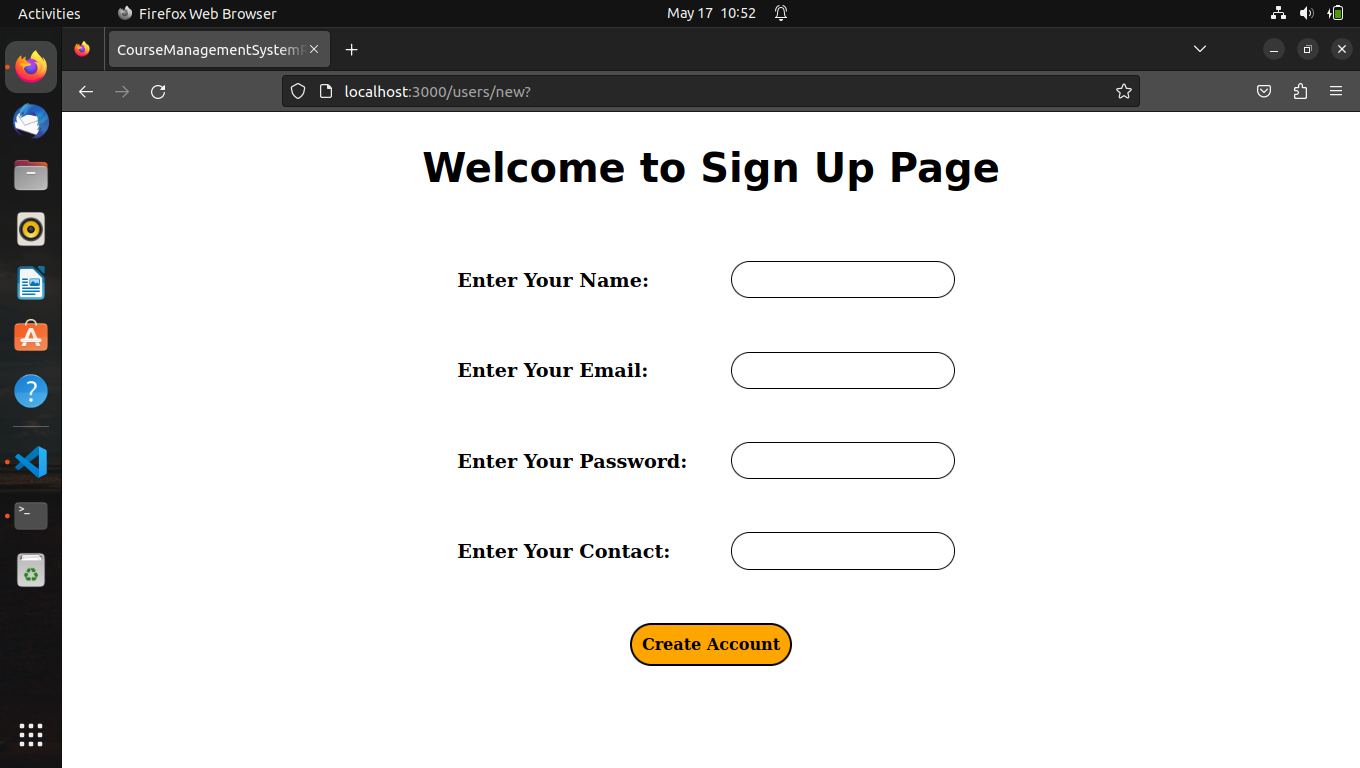
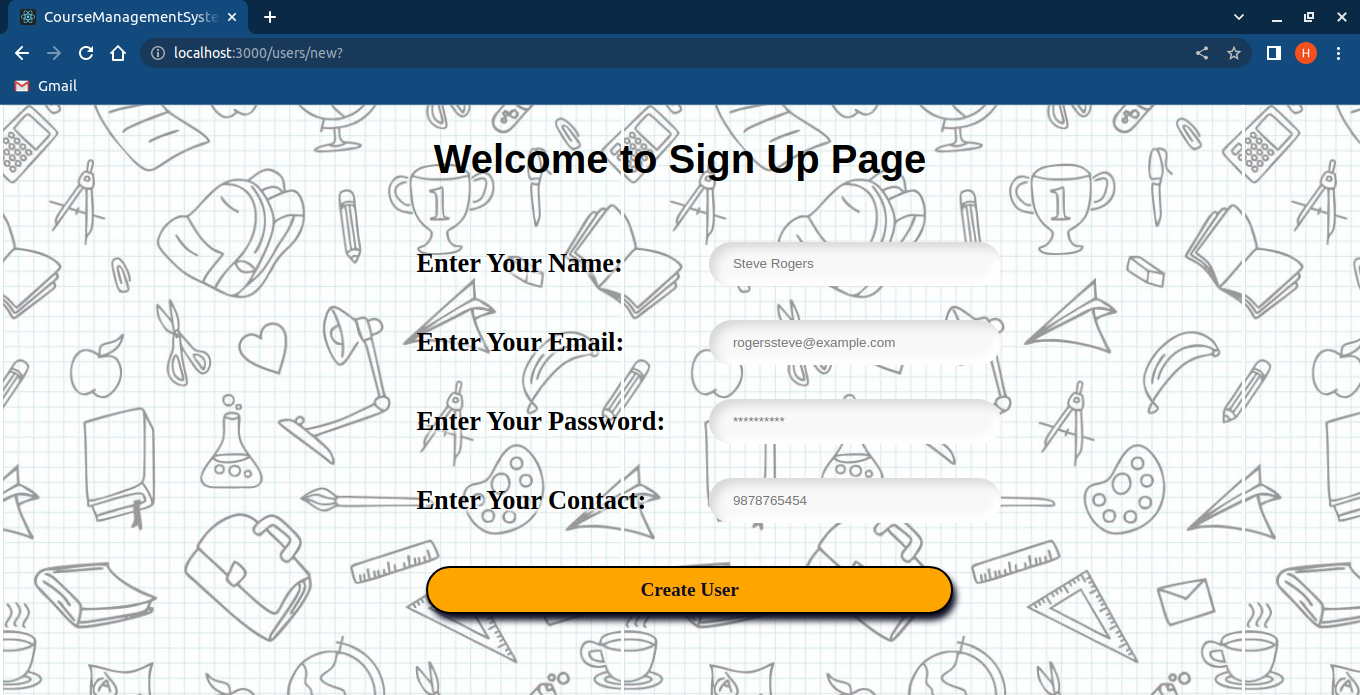
Styling 4

diff --git a/README.md b/README.md
@@ -2,34 +2,50 @@
 
 ## Output ScreenShot
 
+<br>
+
 ### Welcome Page:
 
-<img src="app/assets/images/ScreenShot/Welcome.png">
+<img src="app/assets/images/ScreenShot/WelcomePage.png">
+
+<br>
 
 ### Sign Up:
 
 <img src="app/assets/images/ScreenShot/SignUp.png">
 
+<br>
+
 ### Sign In:
 
 <img src="app/assets/images/ScreenShot/SignIn.png">
 
+<br>
+
 ### Course Available:
 
-<img src="app/assets/images/ScreenShot/CourseAvailabe.png">
+<img src="app/assets/images/ScreenShot/BuyCourse.png">
+
+<br>
 
 ### Course Published:
 
-<img src="app/assets/images/ScreenShot/CoursePublished.png">
+<img src="app/assets/images/ScreenShot/PublishCourse.png">
+
+<br>
 
 ### Course Bought:
 
 <img src="app/assets/images/ScreenShot/CourseBought.png">
 
+<br>
+
 ### Course Module:
 
-<img src="app/assets/images/ScreenShot/Course Module.png">
+<img src="app/assets/images/ScreenShot/Syllabus.png">
 
-### Course Adding:
+<br>
 
-<img src="app/assets/images/ScreenShot/Course Adding.png">
+### Editing Profile:
+
+<img src="app/assets/images/ScreenShot/EditProfile.png">
